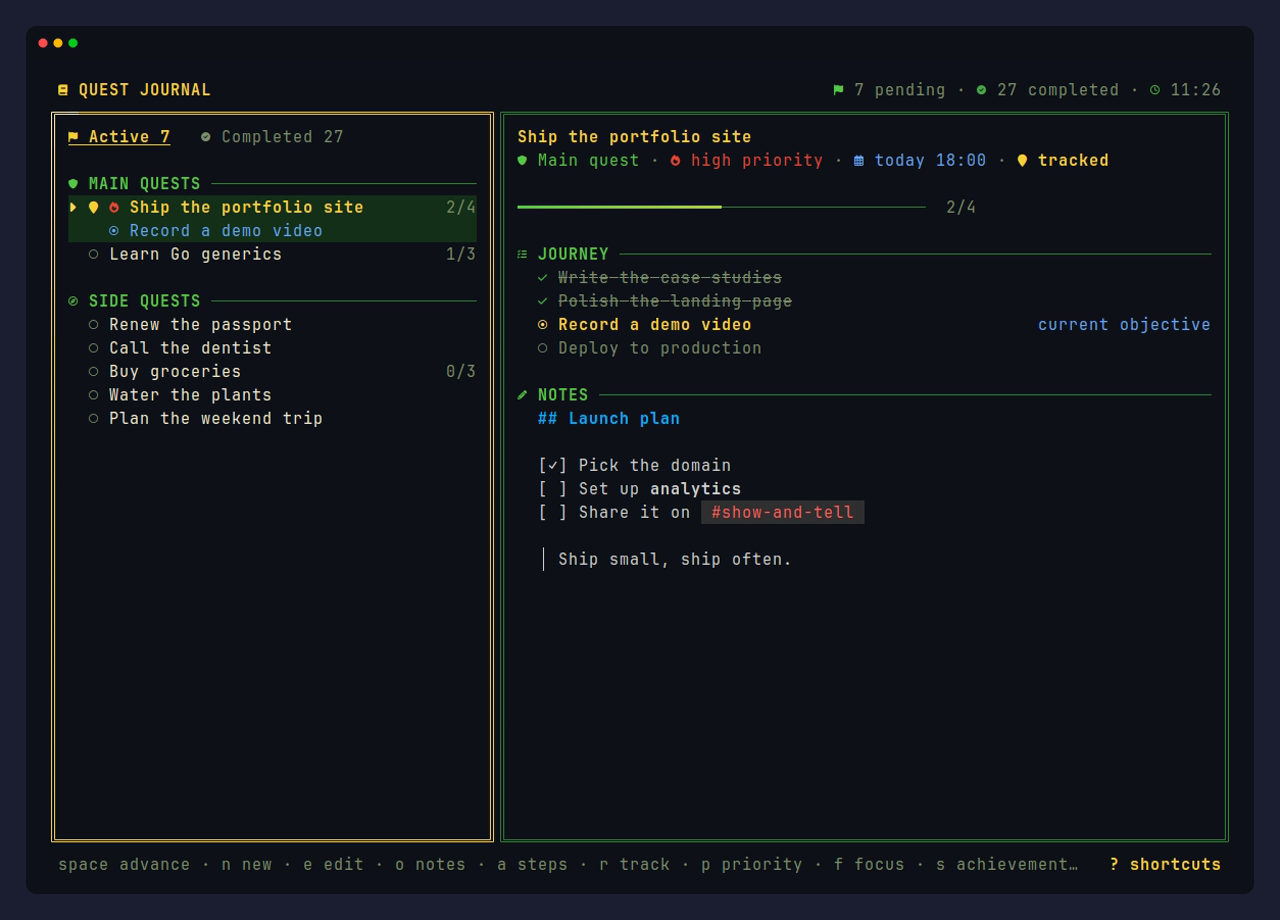
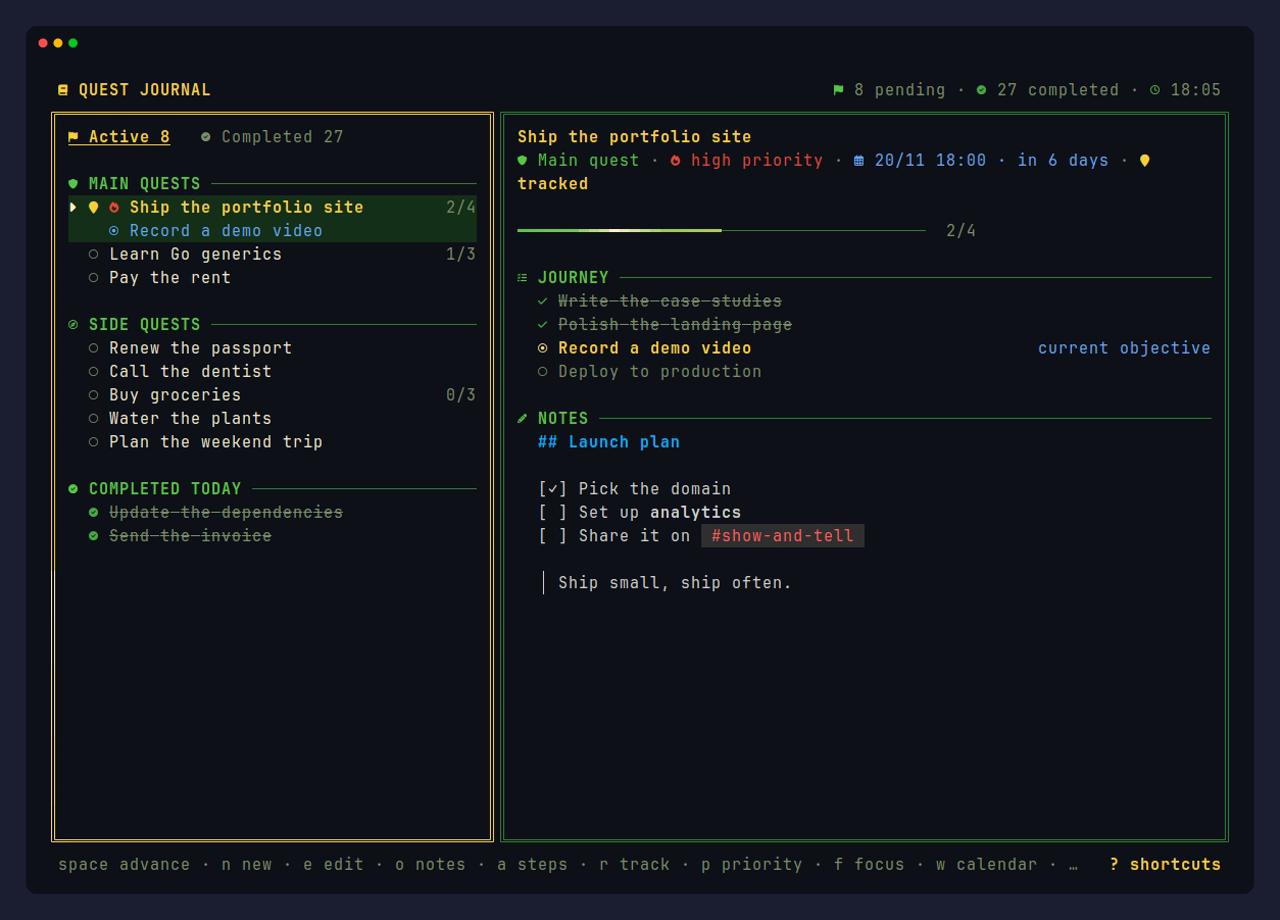
README: calendar demo and re-recorded images
- New calendar.gif (moving through the month, the day's quests, writing a
  day note) and a calendar.png screenshot under "More screenshots"
- Re-recorded every image: the journal now shows today's completed quests
  below the active ones, and the footer mentions the calendar
- The demo seed adds day notes and two more deadlines
- record.sh turns VHS's Chromium sandbox off when running as root, as in
  WSL, where it would not start otherwise

diff --git a/docs/demo/seed.go b/docs/demo/seed.go
@@ -64,7 +64,15 @@ var full = []quest{
 		steps: []string{"Coffee beans", "Oat milk", "Fresh bread"},
 	},
 	{title: "Water the plants"},
-	{title: "Plan the weekend trip"},
+	{title: "Plan the weekend trip", due: "+9d"},
+	{title: "Pay the rent", main: true, due: "+16d"},
+}
+
+// Calendar notes, by days from today.
+var dayNotes = map[int]string{
+	0: "## Today\n\n- Standup at **10:00**\n- [ ] Pick up the package",
+	3: "Mom's birthday dinner, bring the cake",
+	9: "Train leaves at 08:15 from platform 4",
 }
 
 var finale = []quest{
@@ -174,6 +182,11 @@ func main() {
 		}
 		if d.tracked {
 			must(s.ToggleTracked(q.ID))
+		}
+	}
+	if scenario == "full" {
+		for d, text := range dayNotes {
+			must(s.SetDayNote(store.DateOnly(now).AddDate(0, 0, d), text))
 		}
 	}
 	must(s.Close())

diff --git a/README.md b/README.md
@@ -49,7 +49,8 @@ track the one that matters, and get a small celebration every time you finish so
 
 ### The journal
 
-Quests on the left, the selected quest on the right: its steps, the current objective, its due date and your notes.
+Quests on the left, with the ones you finished today kept at the bottom; the selected quest on the right: its steps,
+the current objective, its due date and your notes.
 
 <img src="docs/images/journal.png" alt="The journal" width="900">
 
@@ -79,6 +80,14 @@ Press `o` to write notes in markdown. The preview updates as you type, lists and
 to open the note in your own editor.
 
 <img src="docs/images/notes.gif" alt="The markdown notes editor with live preview and vim mode" width="900">
+
+### Calendar
+
+Press `w` for the month at a glance. Every deadline sits on its day (red when it is late), and the side
+panel lists the selected day's quests. `enter` jumps to one in the journal, `n` creates a quest already due
+that day, and `o` writes a note for the day in the same markdown editor.
+
+<img src="docs/images/calendar.gif" alt="The calendar with deadlines and a note for the day" width="900">
 
 ### Themes
 
@@ -117,6 +126,10 @@ switch to a light style with them.
 **Completed quests, grouped by day**
 
 <img src="docs/images/completed.png" alt="The completed tab" width="900">
+
+**The calendar, with today's quests and note**
+
+<img src="docs/images/calendar.png" alt="The calendar screen" width="900">
 
 **Built-in help**
 
